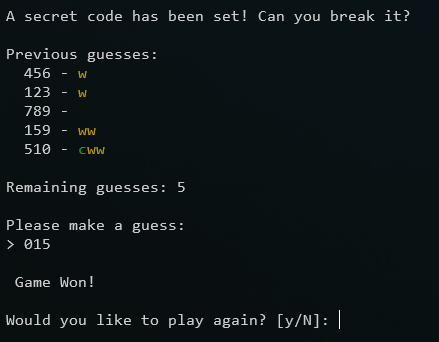
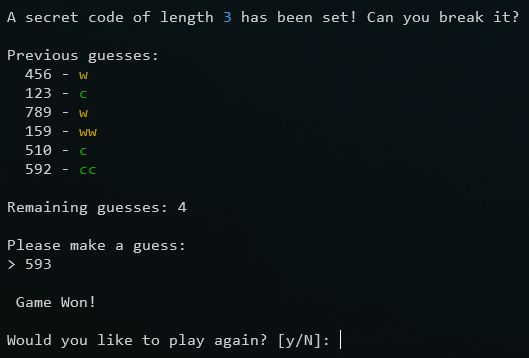
UI tweaks and changed max guesses on hard difficulty

diff --git a/src/main.py b/src/main.py
@@ -4,9 +4,6 @@ import enum
 import random
 
 
-MAX_GUESSES = 10
-
-
 BLACK = "\033[30m"
 RED = "\033[31m"
 GREEN = "\033[32m"
@@ -26,6 +23,7 @@ def clear() -> None:
 class CodeBreaker:
     def __init__(self) -> None:
         self.__difficulty: int = None
+        self.__max_guesses: int = None
         self.__secret_code: str = None
         self.__history: list = []
 
@@ -73,9 +71,8 @@ class CodeBreaker:
 
     def __make_guess(self) -> None:
         if self.__last_guess_invalid:
-            print(RED + "You entered an invalid or duplicate guess!" + RESET + "Please try again:")
-        else:
-            print("Please make a guess:")
+            print(RED + "You entered an invalid or duplicate guess!" + RESET)
+        print("Please make a guess:")
         guess = input("> ")
 
         try:
@@ -100,7 +97,14 @@ class CodeBreaker:
             pass
 
     def __draw_board(self) -> None:
-        print("A secret code has been set! Can you break it?", "\n")
+        print(
+            "A secret code of length "
+            + CYAN
+            + str(len(self.__secret_code))
+            + RESET
+            + " has been set! Can you break it?",
+            "\n",
+        )
 
         if len(self.__history) > 0:
             print("Previous guesses:")
@@ -110,7 +114,7 @@ class CodeBreaker:
 
             print("")
 
-        print("Remaining guesses:", MAX_GUESSES - len(self.__history), "\n")
+        print("Remaining guesses:", self.__max_guesses - len(self.__history), "\n")
 
     # Set game difficulty. Determines the length of the code to break
     def __set_difficulty(self) -> None:
@@ -134,6 +138,11 @@ class CodeBreaker:
                 self.__difficulty = int(choice)
                 if self.__difficulty < 1 or self.__difficulty > 3:
                     raise ValueError("Code length must be between 3 and 5")
+
+                if self.__difficulty == 3:
+                    self.__max_guesses = 12
+                else:
+                    self.__max_guesses = 10
             except ValueError:
                 invalid_choice = True
             else:
@@ -142,7 +151,7 @@ class CodeBreaker:
                 pass
 
     def run(self) -> None:
-        while len(self.__history) < MAX_GUESSES and not self.__player_has_won:
+        while len(self.__history) < self.__max_guesses and not self.__player_has_won:
             clear()
             self.__draw_board()
             self.__make_guess()
